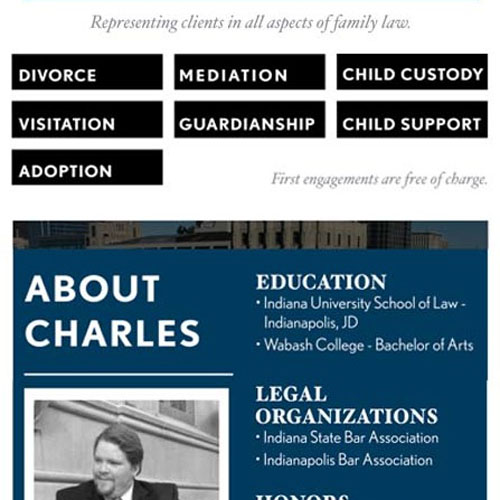
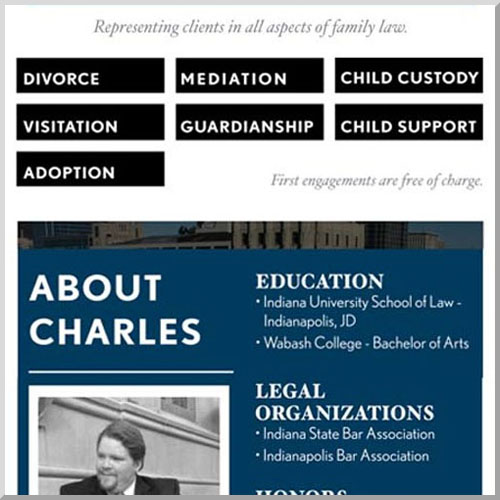
border around thumbnails, updated project 3

Changed region(s): [[0.0, 0.0, 1.0, 1.0], [0.51, 0.75, 0.9, 0.93], [0.54, 0.33, 0.96, 0.39]]

diff --git a/project3.html b/project3.html
@@ -44,56 +44,57 @@
     <!-- Content Section -->
     <div id="project-area">
        <div id="port-header">
-        <h2 class="header teal-header">HOMEPAGE CASE STUDY</h2>
+        <h2 class="header teal-header">HOMEPAGE REDESIGN</h2>
       </div>
       <div id="project-text">
-          <h4>CHALLENGE</h4>
-          <p>Despite high downloads, we were not hitting the retention numbers we were after. Through interviewing power users and reviewing the customer support data it became apparent that many people were not fully understanding how the app works prior to downloading. We were driven by our legacy products and hype, but our website's hompage was not serving as a powerful tool.</p> 
-          <p>Because of the homepage, the scope of the product's features was unknown. Our messaging was unclear and without value-adding images. Much of the content alluded to the older versions of the product. In order to detach and prove the value of the newly released product, my task was to add more concrete content for people to instantaneously grasp the concept and value of the product. A fresher page needed to be created with new content and a competitive SEO strategy.
-</p>
-           <div id="one">
-            <address>Existing design</address>
-            <img src="../images/homepageexisting.jpg">
+        <div id="one">
+            <img src="../images/homepagetop.jpg">
+          </div>
+          <h4>USER FEEDBACK ANALYSIS</h4>
+          <p>Upon arriving at the company, I underwent an audit of the existing customer support data. In analyzing the feedback, it became apparent that improvements could be made to the website to address the following concerns:</p>
+            <ul>
+              <li>Users simply do not understand what the app does in general.</li>
+            <li>Users don’t understand the scope of the product. They do not know that they can block apps as well as websites.</li>
+            <li>Users are underutilizing the custom add feature. They are relying almost exclusively on our limited list of preset options.</li></ul>
+           
+          <h4>HEURISTIC EVALUATION</h4>
+          <p>Now knowing that the homepage was a source of user discontent, I performed a heuristic evaluation. Below is a high level outline of my observations.
+          </p>
+          <div id="one"><a href="../images/homepageheuristic.jpg" target="_blank"><img src="../images/homepageheuristic.jpg"></a>
           </div>
 
-          <h4>PROCESS</h4>
-          <p>I reviewed the user research and made a list of the pain points that would be appropriate to address within the setting of the homepage. I knew off the bat that we were in need of adding product images, keywords, and jargon-free content to create a clearer picture of the product for prospective users.
+          <h4>STAKEHOLDER GOALS</h4>
+          <p>I met with the team to present my findings and to understand their vision for the homepage. The website was the pillar of our marketing efforts, so improving SEO was viewed as the highest priority. Along with the user feedback issues, I would need to restructure the content hierarchy and add navigation mapping to link to new pages.
           </p>
-           <p>
-          In the initial phase of redesign, I ran AB tests and discovered through the service’s heatmap feature that a high percentage of visitors were clicking through to the FAQ page. It was clear that our current homepage design was leaving people with an inadequate explanation of the app. We needed to add valuable, educational content to foster an increase in qualified downloads.
-           </p>
-         
-         <p>
-         In order to format new content correctly, I studied other product homepages. I looked first at competitors and then at successful B2C SaaS products within in the industry. I was looking to find design and content trends. I discovered that there is an almost standardized approach to product homepages. I created a list of the “best practice” features consumers expect when they land on a new product’s homepage. I found the best examples of these and collected them all as inspiration. 
-
-          </p>
+          <h4>COMPETITIVE ANALYSIS</h4> 
+          <p>I analyzing competitor websites and the websites of other successful B2C Saas products to identify standardized design and content elements.<p>
            <div id="one">
             <a href="https://www.pinterest.com/amj516/product-website/" target="_blank"><img src="../images/homepagepin.jpg"></a>
           </div>
+          <h4>REQUIREMENTS</h4>
           <p>
-          Within this redesign process, I realized that there was an important development opportunity that would be a big win for users, but would not require the development of a new feature. By expanding on more preset values within the block feature, we would be improving on the highest used function within the backend structure we already had in place.
+          After completing the research, I gathered a list of requirements for the new homepage design:
           </p>
-          <div id="two">
-            <img src="../images/homepagewireframe1.jpg">
-            <img src="../images/homepagewireframe2.jpg">
-          </div>
-          <h4>OUTCOME</h4>
-          <p>The standard features that we were missing out on where: product screenshots, download buttons, clear device support, a visible signup form, a link to pricing, illustration of product use, and icons visualizing the spectrum of features. I set out wireframing these ideas in order to figure out the best way to succinctly arrange these components on our homepage.
+          <ul>
+            <li>Navigation bar, site mapping</li>
+            <li>Visible signup form</li>
+            <li>Unique CTA color to pop out from the green and grey</li>
+            <li>Explanatory product images</li>
+            <li>A walkthrough of how the product works</li>
+            <li>Use case list to boost SEO keywords</li>
+            <li>Download buttons for all compatible devices</li></ul>
 
-          </p>
-          <p>
-          The resulting high fidelity wireframe displays a more holistic snapshot of the product, what it does, what it looks like, and how it can be used. By creating a more transparent lense into the product, this design primes prospects to be qualified downloaders, creating a stronger chance for fast user adoption. 
-          </p><p>
-          The comprehensive breadth of information listed and the reorganization and addition of links boosts the homepages credibility, making it an accurate ambassador to the product. 
-          </p>
-          <address>High fidelity mockup with image placeholders and final content. Click to view larger</address>
-          <div id="one">
-            <a href="../images/homepagemockup.jpg" target="_blank"><img src="../images/homepagemockup.jpg"></a>
+            <p>The design would be a success if it increased qualified downloads and decreased the support issue topics mentioned above.</p>
+          <h4>WIREFRAMES<br></h4>
+          <div id="one"><a href="../images/homepagelayout.jpg" target="_blank"><img src="../images/homepagelayout.jpg"></a>
           </div>
-        </div>
-        <div id="project-nav">
-          <p><a href="/project2">&larr;</a> &nbsp;&nbsp;&nbsp;&nbsp;<a href="index.html#portfolio-area">&#9783;</a>&nbsp;&nbsp;&nbsp;&nbsp; <a href="/project4">&rarr;</a></p>
-        </div>
+          <h4>INTERACTION AND VISUAL DESIGN<br></h4>
+          <div id="one"><a href="../images/homepagevisualprogress.jpg" target="_blank"><img src="../images/homepagevisualprogress.jpg"></a>
+          </div>
+          <h4>FINAL VISUAL DESIGN<br></h4>
+          <div id="one"><a href="../images/homepagevisualfinal.png" target="_blank"><img src="../images/homepagevisualfinal.png"></a>
+          </div>
+    </div>
     </div>
 
     <!-- Footer -->

diff --git a/index.html b/index.html
@@ -50,11 +50,11 @@
       <div id="info">
         <div id="personal-photo"><img src="../images/headshot-bangs.jpg"></div>
         <div id="about-text">
-          <p>I am a UX Designer with a background in Web Design, Product Marketing, and Client Success. My experience in cross-departmental, user-facing projects gives my work a holistic, user-centered perspective.</p>
+          <p>I am a UX Designer with expert knowledge in Web Design, Product Marketing, and Client Success. My experience in cross-departmental, user-facing projects gives my work a holistic, user-centered perspective.</p>
 
-          <p>My specialties include Interaction Design, Wireframing, User-Centered Website Design, and Branding. The design tools I rely on are Illustrator, Indesign, Photoshop, and sketching in my notebook.</p>
+          <p>My specialties include User-Centered Web Design, Interaction Design, Wireframing, and Branding. The design tools I rely on are Sketch, Illustrator, Photoshop, and my notebook.</p>
 
-          <p>My knowledge of HTML and CSS make me a practical team member in an agile setting. I love incorporating research and data into my design process to create visual solutions that inspire both internal teams and users/clients.</p>
+          <p>My knowledge of HTML and CSS make me a practical team member in an agile setting. I love incorporating research and data into my design process to create visual solutions that inspire both internal teams/clients and their users.</p>
         </div>
       </div>
       <div id="sig">
@@ -85,7 +85,7 @@
           </div>
          <div class="case-study"> 
             <a href="/project3">
-              <img src="../images/homepagethumbnail.jpg">
+              <img src="../images/homepagethumbnail2.jpg">
             <p>HOMEPAGE</p></a>
           </div>
           <div class="case-study">

diff --git a/css/project.css b/css/project.css
@@ -4,6 +4,23 @@ address {
     font-size: .9rem;
     text-align: center;
 }
+
+ul {
+    list-style: none;
+}
+
+li {
+    font-family: 'Lato', sans-serif;
+    text-decoration: none;
+    font-size: 1.1rem;
+
+}
+
+li:before {
+    content: "❑ ";
+    color: #00d08d;
+}
+
 /* Project nav */
 
 #secondary-nav-container {
